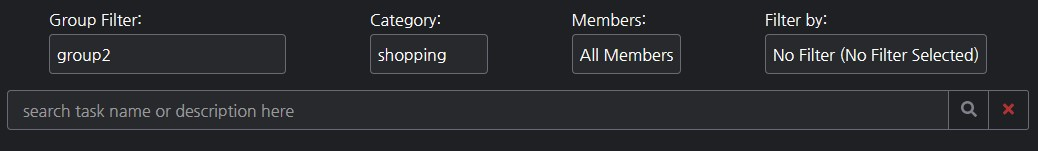
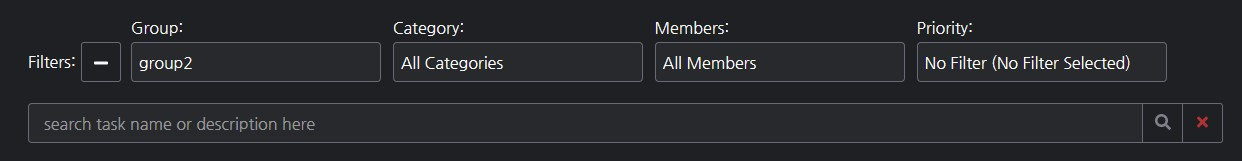
landing and styles

diff --git a/src/components/Filter/Filter.js b/src/components/Filter/Filter.js
@@ -3,7 +3,12 @@ import GroopContext from '../../contexts/GroopContext';
 import './Filter.scss';
 import GroopService from '../../services/groop-service';
 import { FontAwesomeIcon } from '@fortawesome/react-fontawesome';
-import { faSearch, faTimes, faPlus, faMinus } from '@fortawesome/free-solid-svg-icons';
+import {
+  faSearch,
+  faTimes,
+  faPlus,
+  faMinus,
+} from '@fortawesome/free-solid-svg-icons';
 export default class Filter extends Component {
   static contextType = GroopContext;
 
@@ -19,10 +24,10 @@ export default class Filter extends Component {
   };
 
   componentDidMount = async () => {
-    if(window.innerWidth > 800){
+    if (window.innerWidth > 800) {
       this.setState({
-      showFilter: true,
-      })
+        showFilter: true,
+      });
     }
     if (this.props.match.path === '/dashboard') {
       this.setState({
@@ -209,7 +214,7 @@ export default class Filter extends Component {
     const groups = this.context.groups || [];
     return (
       <label htmlFor="group-filter-select">
-        Group Filter:
+        Group:
         <select
           name="Groups"
           id="group-filter-select"
@@ -367,34 +372,46 @@ export default class Filter extends Component {
   render() {
     const path = this.props.match.path;
     const dashboard = '/dashboard';
-    const { showFilter } = this.state
+    const { showFilter } = this.state;
     if (path === dashboard) {
       return (
         <div className="filter">
           <span>Filters:</span>{' '}
-           <button className="FilterToggle"onClick={() => this.setState({ showFilter: !showFilter })}>
-                    { showFilter ? <><FontAwesomeIcon icon={faMinus} id="closeIcon" /></> :<><FontAwesomeIcon icon={faPlus} id="closeIcon" /></> }
-                </button>
-                { showFilter && (
-                    <>
-          {this.groupFilter()}
-          {this.categorySelection()}
-          {this.memberSelection()}
-          <label htmlFor="filter">
-            {' '}
-            Priority:
-            <select
-              name="filter-dropdown"
-              onChange={e => this.onFilterByChange(e.target.value)}
-            >
-              <option value="None">No Filter (No Filter Selected)</option>
-              <option value="High Priority">High Priority</option>
-              <option value="Medium Priority">Medium Priority</option>
-              <option value="Low Priority">Low Priority</option>
-            </select>
-          </label>
-          </>
+          <button
+            className="FilterToggle"
+            onClick={() => this.setState({ showFilter: !showFilter })}
+          >
+            {showFilter ? (
+              <>
+                <FontAwesomeIcon icon={faMinus} id="closeIcon" />
+              </>
+            ) : (
+              <>
+                <FontAwesomeIcon icon={faPlus} id="closeIcon" />
+              </>
+            )}
+          </button>
+          {showFilter && (
+            <>
+              {this.groupFilter()}
+              {this.categorySelection()}
+              {this.memberSelection()}
+              <label htmlFor="filter">
+                {' '}
+                Priority:
+                <select
+                  name="filter-dropdown"
+                  onChange={e => this.onFilterByChange(e.target.value)}
+                >
+                  <option value="None">No Filter (No Filter Selected)</option>
+                  <option value="High Priority">High Priority</option>
+                  <option value="Medium Priority">Medium Priority</option>
+                  <option value="Low Priority">Low Priority</option>
+                </select>
+              </label>
+            </>
           )}
+          <div className="break"></div>
           <form className="filter-search-form">
             <input
               type="text"
@@ -420,28 +437,40 @@ export default class Filter extends Component {
       return (
         <div className="filter">
           <span>Filters:</span>{' '}
-           <button className="FilterToggle" onClick={() => this.setState({ showFilter: !showFilter })}>
-           { showFilter ? <>{' '}<FontAwesomeIcon icon={faMinus} id="closeIcon" /></> :<>{' '}<FontAwesomeIcon icon={faPlus} id="closeIcon" /></> }
-                </button>
-                { showFilter && (
-                    <>
-         
-          {this.categorySelection()}
-          {this.memberSelection()}
-          <label htmlFor="filter">
-            {' '}
-            Priority:
-            <select
-              name="filter-dropdown"
-              onChange={e => this.onFilterByChange(e.target.value)}
-            >
-              <option value="None">No Filter (No Filter Selected)</option>
-              <option value="High Priority">High Priority</option>
-              <option value="Medium Priority">Medium Priority</option>
-              <option value="Low Priority">Low Priority</option>
-            </select>
-          </label>
-          </>
+          <button
+            className="FilterToggle"
+            onClick={() => this.setState({ showFilter: !showFilter })}
+          >
+            {showFilter ? (
+              <>
+                {' '}
+                <FontAwesomeIcon icon={faMinus} id="closeIcon" />
+              </>
+            ) : (
+              <>
+                {' '}
+                <FontAwesomeIcon icon={faPlus} id="closeIcon" />
+              </>
+            )}
+          </button>
+          {showFilter && (
+            <>
+              {this.categorySelection()}
+              {this.memberSelection()}
+              <label htmlFor="filter">
+                {' '}
+                Priority:
+                <select
+                  name="filter-dropdown"
+                  onChange={e => this.onFilterByChange(e.target.value)}
+                >
+                  <option value="None">No Filter (No Filter Selected)</option>
+                  <option value="High Priority">High Priority</option>
+                  <option value="Medium Priority">Medium Priority</option>
+                  <option value="Low Priority">Low Priority</option>
+                </select>
+              </label>
+            </>
           )}
           <form className="filter-search-form">
             <input

diff --git a/src/components/Filter/Filter.scss b/src/components/Filter/Filter.scss
@@ -1,4 +1,4 @@
-@import "../../variables.scss";
+@import '../../variables.scss';
 
 .filter-search-form {
   display: flex;
@@ -11,7 +11,7 @@
   border-top: 1px solid $color-bg-main5;
   background-color: transparent;
   border-bottom: 1px solid $color-bg-main5;
-  border-right:1px solid $color-bg-main5;
+  border-right: 1px solid $color-bg-main5;
   border-left: none;
   cursor: pointer;
   height: 40px;
@@ -22,7 +22,7 @@
   color: $color-font-offwhite;
   border-top: 1px solid $color-error;
   border-bottom: 1px solid $color-error;
-  border-right:1px solid $color-error;
+  border-right: 1px solid $color-error;
   background-color: $color-error;
 }
 
@@ -30,7 +30,7 @@
   color: $color-font-offwhite;
   border-top: 1px solid $color-font-offwhite;
   border-bottom: 1px solid $color-font-offwhite;
-  border-right:1px solid $color-font-offwhite;
+  border-right: 1px solid $color-font-offwhite;
   border-left: 1px solid $color-font-offwhite;
 }
 
@@ -62,6 +62,7 @@
   margin-bottom: 5px;
   height: auto;
   width: auto;
+  margin-right: 0.5em;
 }
 
 .FilterToggle:hover {
@@ -85,7 +86,8 @@
   display: flex;
 }
 
-.FilterButton svg, .FilterButtonCancel svg {
+.FilterButton svg,
+.FilterButtonCancel svg {
   margin-top: 10px;
 }
 
@@ -109,6 +111,7 @@
     margin-right: 0%;
     margin-left: 0;
     margin-top: 5px;
+    margin-right: 1%;
 
     > select {
       margin: 5px auto;
@@ -156,6 +159,11 @@ select {
   padding: 5px 10px;
 }
 
+.break {
+  flex-basis: 100%;
+  height: 0;
+}
+
 @media screen and (min-width: 800px) {
   .FilterToggle {
     margin-bottom: 1.3rem;
@@ -183,12 +191,11 @@ select {
     display: flex;
     width: 100%;
     margin: 0 auto;
-    margin-top: 3rem;
     flex-direction: row;
     align-items: flex-end;
     justify-content: left;
     > label {
-      width: 21%;
+      // width: 21%;
       margin-right: 1%;
 
       > select {

diff --git a/src/components/RegistrationForm/RegistrationForm.js b/src/components/RegistrationForm/RegistrationForm.js
@@ -20,7 +20,7 @@ class RegistrationForm extends Component {
     ev.preventDefault();
     const { name, username, email, password, confirmPassword } = ev.target;
     if (password.value !== confirmPassword.value) {
-      alert('passwords do not match');
+      this.setState({ error: 'Passwords do not match' });
     } else {
       AuthApiService.postUser({
         fullname: name.value,
@@ -49,9 +49,6 @@ class RegistrationForm extends Component {
     const { error } = this.state;
     return (
       <form onSubmit={this.handleSubmit}>
-        <div role="alert" className="alert">
-          {error && <p>{error}</p>}
-        </div>
         <div className="login-field">
           <Label
             htmlFor="registration-name-input"
@@ -130,7 +127,13 @@ class RegistrationForm extends Component {
             required
           />
         </div>
-        <p className='passwordTip'>TIP: Choose a password between 8 and 72 characters that includes at least one number, and one uppercase, lowercase, and special character.</p>
+        <p className="passwordTip">
+          TIP: Choose a password between 8 and 72 characters that includes at
+          least one number, and one uppercase, lowercase, and special character.
+        </p>
+        <div role="alert" className="alert">
+          {error && <p>{error}</p>}
+        </div>
         <footer>
           <Button type="submit">Sign up</Button>{' '}
           <Link to="/login" className="toLogin-link">

diff --git a/src/routes/LandingPageRoute/LandingPageRoute.js b/src/routes/LandingPageRoute/LandingPageRoute.js
@@ -9,6 +9,7 @@ import GroupSettingsImage from '../../images/groupsettings.png';
 import taskitemimg from '../../images/taskitem.jpg';
 import searchfilterimg from '../../images/searchfilter.jpg';
 import sidebarimg from '../../images/sidebar.jpg';
+import weeklyglance from '../../images/weeklyglance.jpg';
 
 export default class LandingPageRoute extends Component {
   render() {
@@ -95,7 +96,7 @@ export default class LandingPageRoute extends Component {
           </div>
           <div className="feature-section">
             <div className="img-container">
-              <img alt="create groops" src={GroupSettingsImage} />
+              <img alt="create groops" src={weeklyglance} />
             </div>
             <div className="feature-description">
               <h2>Email Notifications</h2>

diff --git a/src/routes/GroupPageRoute/GroupPageRoute.scss b/src/routes/GroupPageRoute/GroupPageRoute.scss
@@ -21,7 +21,7 @@
   display: flex;
   flex-direction: column;
   align-items: center;
-  padding-top: 35px;
+  padding-top: 1rem;
   width: 100%;
   color: rgb(226, 226, 226);
   padding-bottom: 2.5rem;
@@ -123,7 +123,7 @@
 }
 @media screen and (min-width: 1200px) {
   .groop-page {
-    padding-top: 30px;
+    padding-top: 1rem;
   }
 
   .members-section-mobile {

diff --git a/src/routes/DashboardRoute/Dashboard.scss b/src/routes/DashboardRoute/Dashboard.scss
@@ -41,6 +41,7 @@
   margin-bottom: 0px;
   font-weight: 600;
   font-family: $font-Family-other;
+  margin-top: 1rem;
 }
 
 #dashboard-label-task-list {
